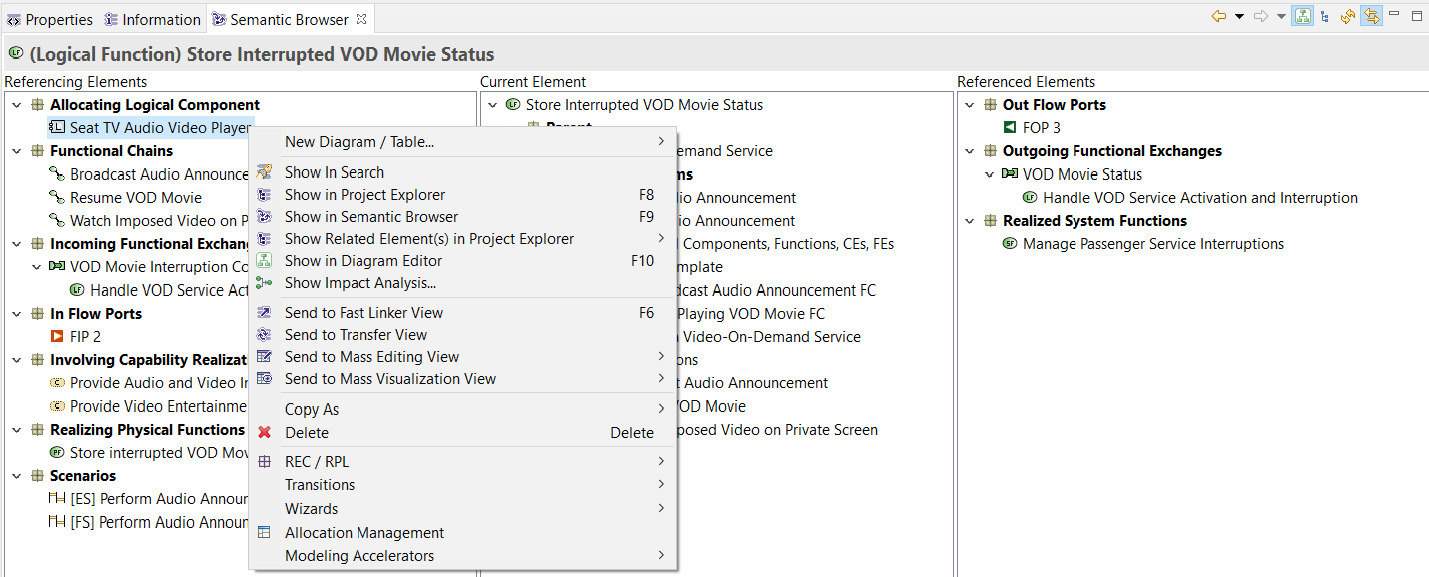
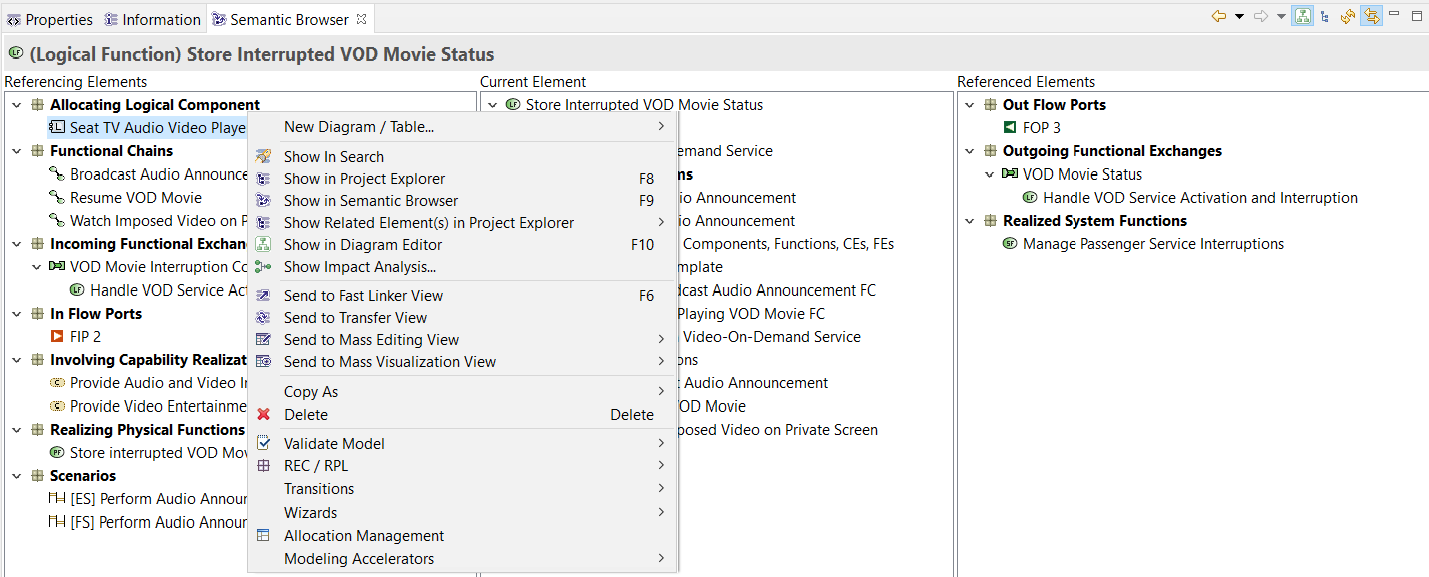
#2116 Add "Validate Model" on SemanticBrowser
Resolves #2116

diff --git a/core/plugins/org.polarsys.capella.core.platform.sirius.ui.actions/src/org/polarsys/capella/core/platform/sirius/ui/handlers/DeleteHandler.java b/core/plugins/org.polarsys.capella.core.platform.sirius.ui.actions/src/org/polarsys/capella/core/platform/sirius/ui/handlers/DeleteHandler.java
@@ -12,8 +12,8 @@
  *******************************************************************************/
 package org.polarsys.capella.core.platform.sirius.ui.handlers;
 
+import java.util.Collection;
 import java.util.List;
-import java.util.stream.Collectors;
 
 import org.eclipse.core.commands.AbstractHandler;
 import org.eclipse.core.commands.ExecutionEvent;
@@ -24,6 +24,7 @@ import org.eclipse.jface.viewers.ISelection;
 import org.eclipse.jface.viewers.IStructuredSelection;
 import org.polarsys.capella.common.ef.ExecutionManager;
 import org.polarsys.capella.common.helpers.TransactionHelper;
+import org.polarsys.capella.core.model.handler.helpers.CapellaAdapterHelper;
 import org.polarsys.capella.core.platform.sirius.ui.commands.CapellaDeleteCommand;
 
 public class DeleteHandler extends AbstractHandler {
@@ -36,14 +37,11 @@ public class DeleteHandler extends AbstractHandler {
 
     if (selection instanceof IStructuredSelection) {
       List<?> elementsToRemove = ((IStructuredSelection) selection).toList();
-      List<EObject> eObjectsToRemove = elementsToRemove.stream()//
-          .filter(EObject.class::isInstance) //
-          .map(EObject.class::cast).collect(Collectors.toList());
-
+      Collection<EObject> eObjectsToRemove = CapellaAdapterHelper.resolveDescriptorsOrBusinessObjects(elementsToRemove);
       if (!eObjectsToRemove.isEmpty()) {
 
         ExecutionManager executionManager = TransactionHelper.getExecutionManager(eObjectsToRemove);
-        CapellaDeleteCommand deleteCommand = new CapellaDeleteCommand(executionManager, elementsToRemove, true,
+        CapellaDeleteCommand deleteCommand = new CapellaDeleteCommand(executionManager, eObjectsToRemove, true,
             withConfirmDeletion(), true);
         deleteCommand.setPreventProtectedElementsDeletion(true);
 

diff --git a/core/plugins/org.polarsys.capella.core.validation.ui/src/org/polarsys/capella/core/validation/ui/DynamicActionProvider.java b/core/plugins/org.polarsys.capella.core.validation.ui/src/org/polarsys/capella/core/validation/ui/DynamicActionProvider.java
@@ -17,6 +17,7 @@ import java.util.List;
 
 import org.eclipse.core.resources.IFile;
 import org.eclipse.emf.edit.ui.action.ValidateAction;
+import org.eclipse.jface.action.ActionContributionItem;
 import org.eclipse.jface.action.IAction;
 import org.eclipse.jface.action.IContributionItem;
 import org.eclipse.jface.action.IMenuManager;
@@ -114,10 +115,11 @@ public class DynamicActionProvider extends AbstractActionProvider {
    * @return
    */
   protected IContributionItem createContributionItem() {
-
     if (userValidationActions.size() > 0) {
       IMenuManager menuManager = new MenuManager("Validate Model", imageDescriptor, "ID"); //$NON-NLS-1$ //$NON-NLS-2$
-      menuManager.add(defaultValidationAction);
+      if (defaultValidationAction.isEnabled()) {
+        menuManager.add(defaultValidationAction);
+      }
       menuManager.add(new Separator());
       for (ValidateAction action : userValidationActions) {
         menuManager.add(action);
@@ -127,13 +129,12 @@ public class DynamicActionProvider extends AbstractActionProvider {
 
     imageDescriptor = CapellaValidationUIActivator.getDefault().getImageDescriptor(CapellaValidationUIActivator.IMG_ENABLED_VALIDATE);
     userValidationActions = new ArrayList<ValidateAction>();
-    defaultValidationAction = createDefaultValidation(); // createValidationAction(true, null, selectionProvider, imageDescriptor);
+    defaultValidationAction = createDefaultValidation();
 
-    IMenuManager menu = new MenuManager("Validate Model", imageDescriptor, "ID"); //$NON-NLS-1$ //$NON-NLS-2$
-    menu.add(new Separator());
-    menu.add(defaultValidationAction);
-    return menu;
-
+    if (defaultValidationAction.isEnabled()) {
+      return new ActionContributionItem(defaultValidationAction);
+    }
+    return null;
   }
 
   /**

diff --git a/core/plugins/org.polarsys.capella.core.validation.ui/src/org/polarsys/capella/core/validation/ui/DynamicCreateContributionItem.java b/core/plugins/org.polarsys.capella.core.validation.ui/src/org/polarsys/capella/core/validation/ui/DynamicCreateContributionItem.java
@@ -96,7 +96,10 @@ public class DynamicCreateContributionItem extends CompoundContributionItem impl
   @Override
   protected IContributionItem[] getContributionItems() {
     IContributionItem item = new DynamicProvider().getItem();
-    return new IContributionItem[] { item };
+    if(item != null) {
+      return new IContributionItem[] { item };
+    }
+    return new IContributionItem[] { };
   }
 
 }
